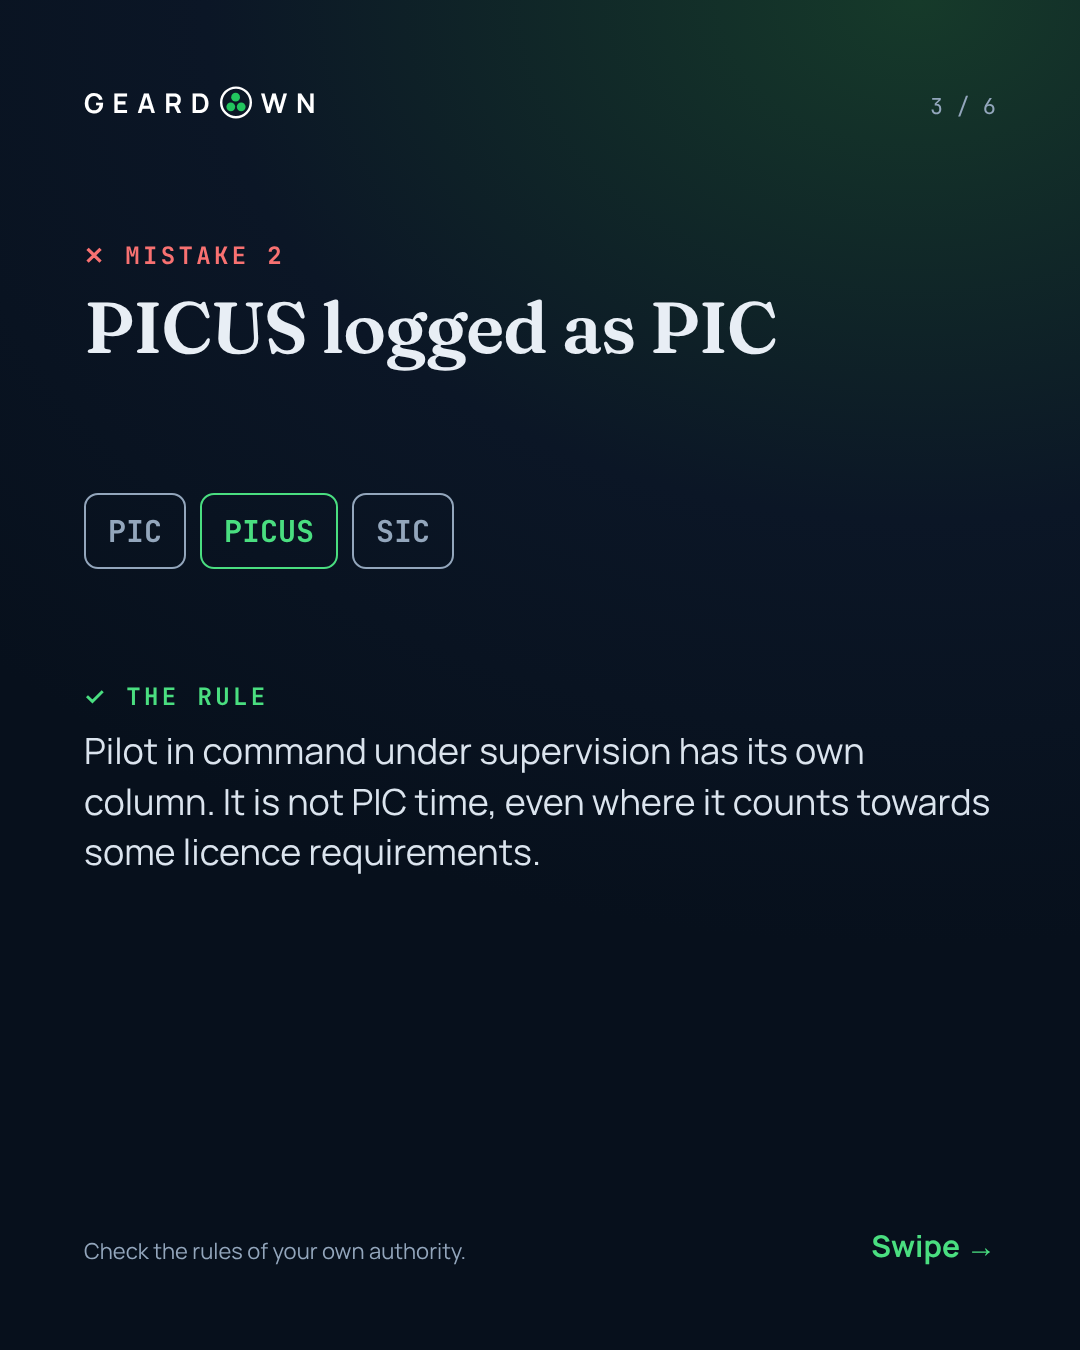
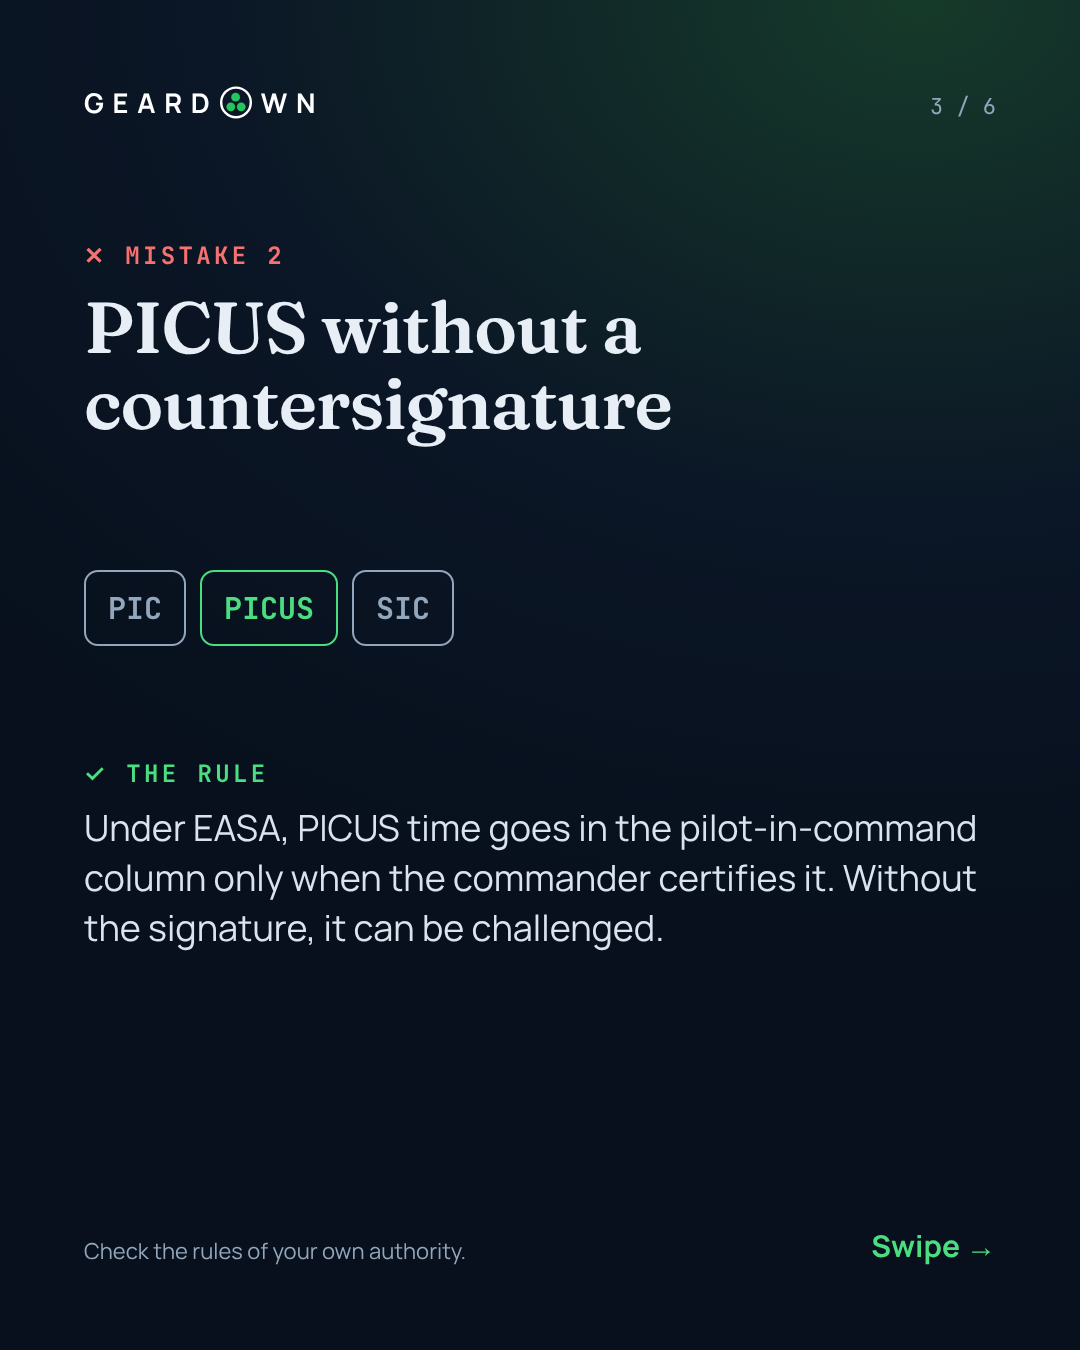
Marketing: PICUS slide corrected (EASA logs it as PIC with the commander's countersignature)
Claude-Session: https://claude.ai/code/session_01EPNtjHp8bccUBpSkHyegiD

diff --git a/marketing/launch-2026/calendrier.html b/marketing/launch-2026/calendrier.html
@@ -167,7 +167,7 @@ How do you keep yours today?
     <div class="cap" id="p-25-nov-12-30-ig" lang="en">5 logbook mistakes that come back at your next check 👇
 
 1. Night time counted from sunset instead of civil twilight
-2. PICUS logged as PIC
+2. PICUS without the commander&#x27;s countersignature
 3. Simulator time mixed with flight time
 4. Totals not carried to the next page
 5. Entries never signed

diff --git a/marketing/launch-2026/scripts/calendar-build.py b/marketing/launch-2026/scripts/calendar-build.py
@@ -20,7 +20,7 @@ posts = [
   "Most pilots keep their logbook in three places: a paper book, a spreadsheet and an app that never quite matches either.\n\nGeardown was built by a working pilot who got tired of reconciling them. One logbook, right column by column: night time from civil twilight along the route, PIC, PICUS and SIC, page totals that follow, and your flight time limitations worked out from the same data.\n\nWe open on 15 December. Until then, we will share what is inside, one feature at a time.\n\nHow do you keep yours today?\n\n"+H_LI,
   "Image sobre : le hero du site (jet au crépuscule au-dessus des nuages) avec le logo Geardown et « 15.12 »."),
  (1,"25 nov.","Mer","12:30","IG","Carrousel 6 vues","5 erreurs de carnet",
-  "5 logbook mistakes that come back at your next check 👇\n\n1. Night time counted from sunset instead of civil twilight\n2. PICUS logged as PIC\n3. Simulator time mixed with flight time\n4. Totals not carried to the next page\n5. Entries never signed\n\nSave this for your next logbook review 📌\n\n"+H_IG,
+  "5 logbook mistakes that come back at your next check 👇\n\n1. Night time counted from sunset instead of civil twilight\n2. PICUS without the commander's countersignature\n3. Simulator time mixed with flight time\n4. Totals not carried to the next page\n5. Entries never signed\n\nSave this for your next logbook review 📌\n\n"+H_IG,
   "Carrousel aux couleurs de l'app (fond nuit, accent vert). Une erreur par vue, avec la bonne règle en une ligne. Dernière vue : « Geardown gets these right for you · 15.12 »."),
  (1,"26 nov.","Jeu","08:30","LI","Sondage","Comment tenez-vous votre carnet ?",
   "Quick poll for pilots: how do you keep your logbook today?\n\n• Paper\n• Spreadsheet\n• A logbook app\n• A bit of everything\n\n(We are building Geardown around the answers.)\n\n"+H_LI,

diff --git a/marketing/launch-2026/scripts/w1-jobs.py b/marketing/launch-2026/scripts/w1-jobs.py
@@ -17,7 +17,7 @@ jobs.append(dict(w=1080,h=1350,out="out/li-2411-why-geardown.png",html=page(1080
 # B. Carousel 25 Nov, 6 slides 1080x1350
 mist=[
  ("Night time counted from sunset","Night runs from the end of evening civil twilight to the beginning of morning civil twilight, when the sun is 6° below the horizon. Sunset is too early.","night"),
- ("PICUS logged as PIC","Pilot in command under supervision has its own column. It is not PIC time, even where it counts towards some licence requirements.","picus"),
+ ("PICUS without a countersignature","Under EASA, PICUS time goes in the pilot-in-command column only when the commander certifies it. Without the signature, it can be challenged.","picus"),
  ("Simulator time mixed with flight time","Sessions in a simulator (FSTD) go in their own section. They never add to your total flight time.","sim"),
  ("Totals not carried to the next page","Every page carries its totals forward. Miss one carry-over and every total after it is wrong.","totals"),
  ("Entries never signed","Training and check flights need the instructor's or examiner's signature. An unsigned entry can be questioned at your next check.","sign"),
